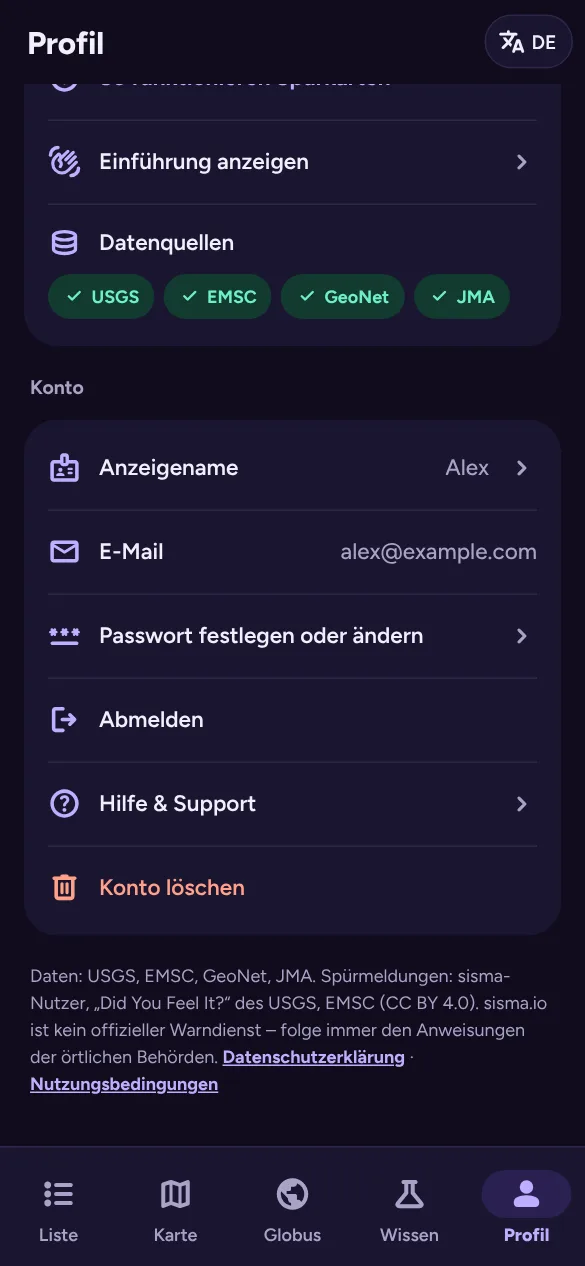
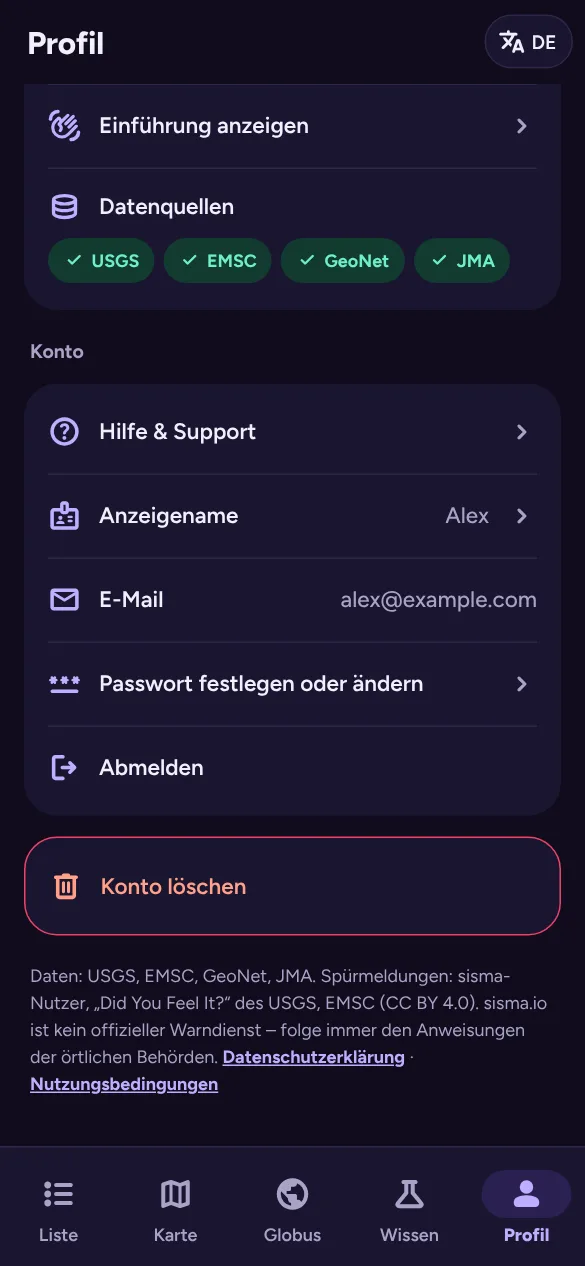
Me: Help & support first, Delete account in its own red card, Administration last; posts vary language and topic
- Me → Account: Help & support is the first row; Delete account moves to its own
  card outlined in red; Administration (administrators only) moves to the
  bottom of the page.
- In Depth and Play Store posts: still a random unused article/post and
  language, but never the same language or the same article/post as the
  previous post while other unused combinations remain (both now vary from
  one post to the next). Tests for both.
- Help centre: Me screenshot retaken in all 10 languages and both themes, its
  description updated; admin guide and docs/bluesky-setup.md note the rule.

Claude-Session: https://claude.ai/code/session_01VVoEA6g7d5oSRS2St1KTEW

diff --git a/app/src/lib/library-posts.ts b/app/src/lib/library-posts.ts
@@ -3,7 +3,7 @@
 // (public/og/<locale>/library-<id>.jpg; English: public/og/library-<id>.jpg) and a link that opens the article in that
 // language (?lang=), tagged #geosky and #sciencesky. When switched on, the every-minute alert job posts twice a day, at a random minute in each half of
 // the UTC day (00:00–12:00 and 12:00–24:00), choosing a random article and language among the combinations not yet
-// posted in the current round; once every combination has been posted the next round starts. An article added later
+// posted in the current round (never the previous post's language or article while others remain); once every combination has been posted the next round starts. An article added later
 // joins the current round. A post made by hand from the admin page counts as the post for that half-day.
 // Hashtags, card descriptions and the alt-text wording per language: content/library-social/<locale>.json.
 import type { SupabaseClient } from '@supabase/supabase-js';
@@ -76,9 +76,19 @@ export function draftLibraryPostIn(article: string, l: LibraryPostLocale): Libra
 }
 
 /** A random combination not in `used` (keys from comboKey), or null when every one has been posted. */
-export function pickCombo(used: Set<string>, rand = Math.random, ids?: string[]) {
-  const left = allCombos(ids).filter(c => !used.has(comboKey(c.article, c.locale)));
-  return left.length ? left[Math.min(left.length - 1, Math.floor(rand() * left.length))] : null;
+export function pickCombo(used: Set<string>, rand = Math.random, ids?: string[], last?: { article: string; locale: string } | null) {
+  return spread(allCombos(ids).filter(c => !used.has(comboKey(c.article, c.locale))), last, rand);
+}
+
+/**
+ * A random one of `left`, avoiding the language and the article of the previous post while other choices remain, so
+ * both the article and the language vary from one post to the next.
+ */
+export function spread<T extends { article: string; locale: string }>(left: T[], last: { article: string; locale: string } | null | undefined, rand = Math.random): T | null {
+  if (!left.length) return null;
+  const tiers = last ? [left.filter(c => c.locale !== last.locale && c.article !== last.article), left.filter(c => c.locale !== last.locale), left] : [left];
+  const pool = tiers.find(t => t.length)!;
+  return pool[Math.min(pool.length - 1, Math.floor(rand() * pool.length))];
 }
 
 // --- Two posts a day: one at a random minute in each half of the UTC day ---
@@ -122,7 +132,9 @@ async function chooseCombo(db: SupabaseClient, s: LibraryPostSettings, want?: { 
     left = allCombos().filter(fits);
   }
   if (!left.length) left = allCombos().filter(fits); // that article (or language) is done this round: a repeat by hand
-  const c = left[Math.floor(Math.random() * left.length)];
+  const { data: prev } = await db.from('library_posts').select('article_id, locale').neq('status', 'failed').order('created_at', { ascending: false }).limit(1);
+  const last = (prev as { article_id: string; locale: string }[] | null)?.[0];
+  const c = spread(left, last ? { article: last.article_id, locale: last.locale } : null)!;
   return { ...c, cycle };
 }
 

diff --git a/app/src/lib/promo.ts b/app/src/lib/promo.ts
@@ -2,7 +2,8 @@
 // with its own hashtags and image description (content/promo/<locale>.json), illustrated with that language's Play
 // Store screenshot or feature graphic (public/promo/<locale>/<image>.jpg) and linked to the Play listing in that
 // language. When switched on, the every-minute alert job posts one a day at a random time (UTC), choosing a random
-// post and language among the combinations not yet posted in the current round; after all 100 the next round starts.
+// post and language among the combinations not yet posted in the current round (not the previous post's language or post
+// while others remain); after all 100 the next round starts.
 // A post made by hand from the admin page counts as that day's post. docs/bluesky-setup.md
 import type { SupabaseClient } from '@supabase/supabase-js';
 import en from '@/content/promo/en.json';
@@ -56,9 +57,16 @@ export function draftPromo(p: PromoId, l: PromoLocale): PromoDraft {
 export const allCombos = () => PROMO_IDS.flatMap(p => PROMO_LOCALES.map(l => ({ post: p, locale: l })));
 
 /** A random combination not in `used` (keys from comboKey), or null when every one has been posted. */
-export function pickCombo(used: Set<string>, rand = Math.random) {
-  const left = allCombos().filter(c => !used.has(comboKey(c.post, c.locale)));
-  return left.length ? left[Math.min(left.length - 1, Math.floor(rand() * left.length))] : null;
+export function pickCombo(used: Set<string>, rand = Math.random, last?: { post: string; locale: string } | null) {
+  return spread(allCombos().filter(c => !used.has(comboKey(c.post, c.locale))), last, rand);
+}
+
+/** A random one of `left`, avoiding the language and the post of the previous one while other choices remain. */
+export function spread<T extends { post: string; locale: string }>(left: T[], last: { post: string; locale: string } | null | undefined, rand = Math.random): T | null {
+  if (!left.length) return null;
+  const tiers = last ? [left.filter(c => c.locale !== last.locale && c.post !== last.post), left.filter(c => c.locale !== last.locale), left] : [left];
+  const pool = tiers.find(t => t.length)!;
+  return pool[Math.min(pool.length - 1, Math.floor(rand() * pool.length))];
 }
 
 const DAY = 86_400_000, MINUTE = 60_000;
@@ -101,7 +109,9 @@ async function chooseCombo(db: SupabaseClient, s: PromoSettings, want?: { post?:
     left = allCombos().filter(fits);
   }
   if (!left.length) left = allCombos().filter(fits); // that post (or language) is done this round: allow a repeat by hand
-  const c = left[Math.floor(Math.random() * left.length)];
+  const { data: prev } = await db.from('promo_posts').select('post_id, locale').neq('status', 'failed').order('created_at', { ascending: false }).limit(1);
+  const last = (prev as { post_id: string; locale: string }[] | null)?.[0];
+  const c = spread(left, last ? { post: last.post_id, locale: last.locale } : null)!;
   return { ...c, cycle };
 }
 

diff --git a/app/src/app/app/me/admin/guide/page.tsx b/app/src/app/app/me/admin/guide/page.tsx
@@ -61,7 +61,7 @@ export default function AdminGuidePage() {
         <h2 id="playstore">Play Store posts</h2>
         <p>Ten posts about the Android app, each written in all 10 languages, with that language’s Play Store picture, an image description and a link to the Play listing in that language: 100 combinations in all.</p>
         <ul>
-          <li><Ui>Post daily</Ui>: one post a day at a random time, a random post and language not yet posted this round. Switching it on schedules the first post later the same day.</li>
+          <li><Ui>Post daily</Ui>: one post a day at a random time, a random post and language not yet posted this round, never in the same language or the same post as the one before. Switching it on schedules the first post later the same day.</li>
           <li><Ui>Next post</Ui>: when the next automatic post is due.</li>
           <li><Ui>This round</Ui>: how many of the 100 have been posted. After all 100, a new round starts.</li>
           <li><Ui>Post now</Ui>: leave <Ui>Post</Ui> and <Ui>Language</Ui> on <Ui>Random</Ui> for the next unused combination, or choose both to see the picture, text and image description first. A combination already posted this round is marked; posting it again repeats it.</li>
@@ -71,7 +71,7 @@ export default function AdminGuidePage() {
         <h2 id="indepthposts">In Depth posts</h2>
         <p>Every In Depth article in all 10 languages, each with its title, standfirst and hashtags in that language plus #geosky and #sciencesky (the Bluesky science feeds), the share card in that language with an image description, and a link that opens the article in that language. Ten articles make 100 combinations; a new article joins the current round.</p>
         <ul>
-          <li><Ui>Post twice a day</Ui>: one post in each half of the day (00:00–12:00 and 12:00–24:00 UTC) at a random time, a random article and language not yet posted this round. Switching it on schedules the first post later in the current half of the day.</li>
+          <li><Ui>Post twice a day</Ui>: one post in each half of the day (00:00–12:00 and 12:00–24:00 UTC) at a random time, a random article and language not yet posted this round, never in the same language or about the same article as the one before. Switching it on schedules the first post later in the current half of the day.</li>
           <li><Ui>Next post</Ui>: when the next automatic post is due.</li>
           <li><Ui>This round</Ui>: how many combinations have been posted. When all of them have been posted, a new round starts.</li>
           <li><Ui>Post now</Ui>: leave <Ui>Article</Ui> and <Ui>Language</Ui> on <Ui>Random</Ui> for an unused combination, or choose both to see the card, text and image description first. A combination already posted this round is marked; posting it again repeats it.</li>

diff --git a/app/src/app/app/me/page.tsx b/app/src/app/app/me/page.tsx
@@ -61,11 +61,11 @@ export default function MePage() {
         <TsunamiAlerts />
         <Locations onLocked={() => setSheet('paywall')} />
         <Preferences />
-        <AdminLink />
         {acct.user && (
           <>
             <div className={styles.sectionLabel}>{a.account}</div>
             <div className={styles.card}>
+              <HelpRow />
               <button type="button" className={styles.row} onClick={() => setNameOpen(true)}>
                 <span className="ms" aria-hidden="true">badge</span><span className={styles.grow}>{a.display_name}</span>
                 <span className={styles.meta}>{acct.profile?.display_name || a.not_set}</span><span className={`ms ${styles.chev}`} aria-hidden="true">chevron_right</span>
@@ -75,12 +75,15 @@ export default function MePage() {
                 <span className="ms" aria-hidden="true">password</span><span className={styles.grow}>{a.password_row}</span><span className={`ms ${styles.chev}`} aria-hidden="true">chevron_right</span>
               </button>
               <button type="button" className={styles.row} onClick={() => void acct.signOut()}><span className="ms" aria-hidden="true">logout</span><span className={styles.grow}>{a.sign_out}</span></button>
-              <HelpRow />
+            </div>
+            {/* Deleting the account: on its own, outlined in red. */}
+            <div className={`${styles.card} ${styles.dangerCard}`}>
               <button type="button" className={`${styles.row} ${styles.dangerRow}`} onClick={() => setDelOpen(true)}><span className="ms" aria-hidden="true">delete</span><span className={styles.grow}>{a.delete}</span></button>
             </div>
           </>
         )}
         {!acct.user && acct.ready && <div className={styles.card}><HelpRow /></div>}
+        <AdminLink />
         <p className={`${styles.disclaimer} ${styles.phoneOnly}`}>{m.web.footer} <a href="/privacy" className={styles.privacyLink}>{m.web.privacy}</a> · <a href="/terms" className={styles.privacyLink}>{m.web.terms}</a></p>
       </div>
 

diff --git a/app/src/lib/library-posts.test.ts b/app/src/lib/library-posts.test.ts
@@ -5,7 +5,7 @@ import { BLUESKY_MAX_ALT, BLUESKY_MAX_GRAPHEMES, graphemes } from './bluesky';
 import { LIBRARY } from './library';
 import {
   allCombos, comboKey, draftLibraryPostIn, firstSlot, libraryPostImage, libraryPostTotal, libraryPostUrl, LIBRARY_POST_LOCALES,
-  nextSlot, pickCombo, sameHalfDay,
+  nextSlot, pickCombo, sameHalfDay, type LibraryPostLocale,
 } from './library-posts';
 
 const enc = new TextEncoder();
@@ -58,6 +58,25 @@ describe('choosing a post', () => {
       used.add(k);
     }
     expect(pickCombo(used, rand)).toBeNull();
+  });
+  it('varies both the article and the language from one post to the next', () => {
+    const used = new Set<string>();
+    let last: { article: string; locale: LibraryPostLocale } | null = null, seq = 0.11;
+    const rand = () => (seq = (seq * 9301 + 49297) % 233280 / 233280);
+    const total = libraryPostTotal();
+    for (let i = 0; i < total; i++) {
+      const c: { article: string; locale: LibraryPostLocale } = pickCombo(used, rand, undefined, last)!;
+      // Until the very end of a round there is always an unused pair in another language and article.
+      if (last && i < total - 20) { expect(c.locale, `post ${i}`).not.toBe(last.locale); expect(c.article, `post ${i}`).not.toBe(last.article); }
+      used.add(comboKey(c.article, c.locale)); last = c;
+    }
+    expect(used.size).toBe(total);
+  });
+  it('uses every language and article early in a round', () => {
+    const used = new Set<string>(); let last: { article: string; locale: LibraryPostLocale } | null = null;
+    const seen = { l: new Set<string>(), a: new Set<string>() };
+    for (let i = 0; i < 30; i++) { const c: { article: string; locale: LibraryPostLocale } = pickCombo(used, Math.random, undefined, last)!; used.add(comboKey(c.article, c.locale)); last = c; seen.l.add(c.locale); seen.a.add(c.article); }
+    expect(seen.l.size).toBeGreaterThanOrEqual(8);
   });
   it('a new article joins the round', () => {
     const ids = LIBRARY.slice(0, 2).map(a => a.id);

diff --git a/app/src/lib/promo.test.ts b/app/src/lib/promo.test.ts
@@ -1,6 +1,6 @@
 import { describe, expect, it } from 'vitest';
 import { BLUESKY_MAX_GRAPHEMES, graphemes } from './bluesky';
-import { allCombos, comboKey, draftPromo, firstSlot, nextSlot, pickCombo, playUrl, PROMO_IDS, PROMO_LOCALES, PROMO_TOTAL, sameUtcDay } from './promo';
+import { allCombos, comboKey, draftPromo, firstSlot, nextSlot, pickCombo, playUrl, PROMO_IDS, PROMO_LOCALES, PROMO_TOTAL, sameUtcDay, type PromoId, type PromoLocale } from './promo';
 
 const enc = new TextEncoder();
 const slice = (s: string, a: number, b: number) => new TextDecoder().decode(enc.encode(s).slice(a, b));
@@ -41,6 +41,18 @@ describe('choosing a post', () => {
       used.add(k);
     }
     expect(pickCombo(used, rand)).toBeNull();
+  });
+});
+
+describe('spreading posts out', () => {
+  it('never repeats the previous language or post while others remain', () => {
+    const used = new Set<string>(); let last: { post: PromoId; locale: PromoLocale } | null = null;
+    for (let i = 0; i < PROMO_TOTAL; i++) {
+      const c: { post: PromoId; locale: PromoLocale } = pickCombo(used, Math.random, last)!;
+      if (last && i < PROMO_TOTAL - 20) { expect(c.locale).not.toBe(last.locale); expect(c.post).not.toBe(last.post); }
+      used.add(comboKey(c.post, c.locale)); last = c;
+    }
+    expect(used.size).toBe(PROMO_TOTAL);
   });
 });
 

diff --git a/app/src/app/help/i18n/ja.tsx b/app/src/app/help/i18n/ja.tsx
@@ -261,7 +261,7 @@ export const TOPICS: Topic[] = [
             <li><strong>メールアドレスの変更</strong>：現在アプリではまだできません。今のアドレスから <a href={`mailto:${MAIL}`}>{MAIL}</a> までご連絡ください。</li>
           </ul>
         </div>
-        <Shot src="me" alt="マイページのアカウント欄：表示名、メールアドレス、パスワード、サインアウト、ヘルプとサポート、アカウントを削除" caption="マイページ下部のアカウント" />
+        <Shot src="me" alt="マイページのアカウント欄：ヘルプとサポート、表示名、メールアドレス、パスワード、サインアウト。アカウントの削除は赤い枠の別カードにあります" caption="マイページ下部のアカウント" />
       </div>
 
       <h3 id="delete-account">アカウントを削除する</h3>

diff --git a/app/src/app/app/me/me.module.css b/app/src/app/app/me/me.module.css
@@ -37,6 +37,8 @@ div.row { cursor: default; }
 .check { font-size: 20px; color: var(--violet-text); }
 .accent { color: var(--violet-text); font-weight: 700; }
 .dangerRow, .dangerRow > :global(.ms):first-child { color: var(--warm-text) !important; }
+/* Delete account: its own card, outlined in red (the tsunami-warning red, light and dark). */
+.dangerCard { border: 1.5px solid var(--tsu-warning); }
 .lock { font-size: 11px; font-weight: 800; color: var(--violet-text); background: var(--violet-soft); padding: 4px 8px; border-radius: 8px; display: flex; align-items: center; gap: 3px; }
 .lock :global(.ms) { font-size: 13px; }
 .switch { width: 48px; height: 28px; border-radius: 14px; background: var(--line); display: flex; align-items: center; padding: 3px; box-sizing: border-box; transition: background .15s; flex: none; }

diff --git a/app/src/app/help/i18n/fr.tsx b/app/src/app/help/i18n/fr.tsx
@@ -261,7 +261,7 @@ export const TOPICS: Topic[] = [
             <li><strong>Changer d’adresse e-mail</strong> : ce n’est pas encore possible dans l’app. Écrivez à <a href={`mailto:${MAIL}`}>{MAIL}</a> depuis votre adresse actuelle.</li>
           </ul>
         </div>
-        <Shot src="me" alt="Section Compte dans Profil : nom affiché, e-mail, mot de passe, déconnexion, aide et assistance, et suppression du compte" caption="Le compte, en bas de Profil" />
+        <Shot src="me" alt="Section Compte dans Profil : aide et assistance, nom affiché, e-mail, mot de passe et déconnexion, avec la suppression du compte dans une carte à part, bordée de rouge" caption="Le compte, en bas de Profil" />
       </div>
 
       <h3 id="delete-account">Supprimer votre compte</h3>

diff --git a/app/src/app/help/i18n/es.tsx b/app/src/app/help/i18n/es.tsx
@@ -261,7 +261,7 @@ export const TOPICS: Topic[] = [
             <li><strong>Cambiar tu dirección de correo</strong>: aún no se puede hacer en la app. Escribe a <a href={`mailto:${MAIL}`}>{MAIL}</a> desde tu dirección actual.</li>
           </ul>
         </div>
-        <Shot src="me" alt="Sección Cuenta en Perfil: nombre visible, correo, contraseña, cerrar sesión, ayuda y soporte, y eliminar cuenta" caption="Cuenta, al final de Perfil" />
+        <Shot src="me" alt="Sección Cuenta en Perfil: ayuda y soporte, nombre visible, correo, contraseña y cerrar sesión, con eliminar cuenta en su propia tarjeta con borde rojo" caption="Cuenta, al final de Perfil" />
       </div>
 
       <h3 id="delete-account">Eliminar tu cuenta</h3>

diff --git a/app/src/app/help/i18n/zh.tsx b/app/src/app/help/i18n/zh.tsx
@@ -261,7 +261,7 @@ export const TOPICS: Topic[] = [
             <li><strong>更改邮箱地址</strong>：目前还无法在应用中更改。请用你当前的邮箱写信至 <a href={`mailto:${MAIL}`}>{MAIL}</a>。</li>
           </ul>
         </div>
-        <Shot src="me" alt="“我的”中的账户部分：显示名称、邮箱、密码、退出登录、帮助与支持以及删除账户" caption="账户，位于“我的”底部" />
+        <Shot src="me" alt="“我的”中的账户部分：帮助与支持、显示名称、邮箱、密码和退出登录；删除账户位于单独的红框卡片中" caption="账户，位于“我的”底部" />
       </div>
 
       <h3 id="delete-account">删除你的账户</h3>

diff --git a/app/src/app/help/i18n/de.tsx b/app/src/app/help/i18n/de.tsx
@@ -261,7 +261,7 @@ export const TOPICS: Topic[] = [
             <li><strong>E-Mail-Adresse ändern</strong>: Das ist in der App noch nicht möglich. Schreib von deiner aktuellen Adresse an <a href={`mailto:${MAIL}`}>{MAIL}</a>.</li>
           </ul>
         </div>
-        <Shot src="me" alt="Kontobereich unter Profil: Anzeigename, E-Mail, Passwort, Abmelden, Hilfe & Support und Konto löschen" caption="Konto, ganz unten unter Profil" />
+        <Shot src="me" alt="Kontobereich unter Profil: Hilfe & Support, Anzeigename, E-Mail, Passwort und Abmelden, darunter Konto löschen in einer eigenen, rot umrandeten Karte" caption="Konto, ganz unten unter Profil" />
       </div>
 
       <h3 id="delete-account">Konto löschen</h3>
